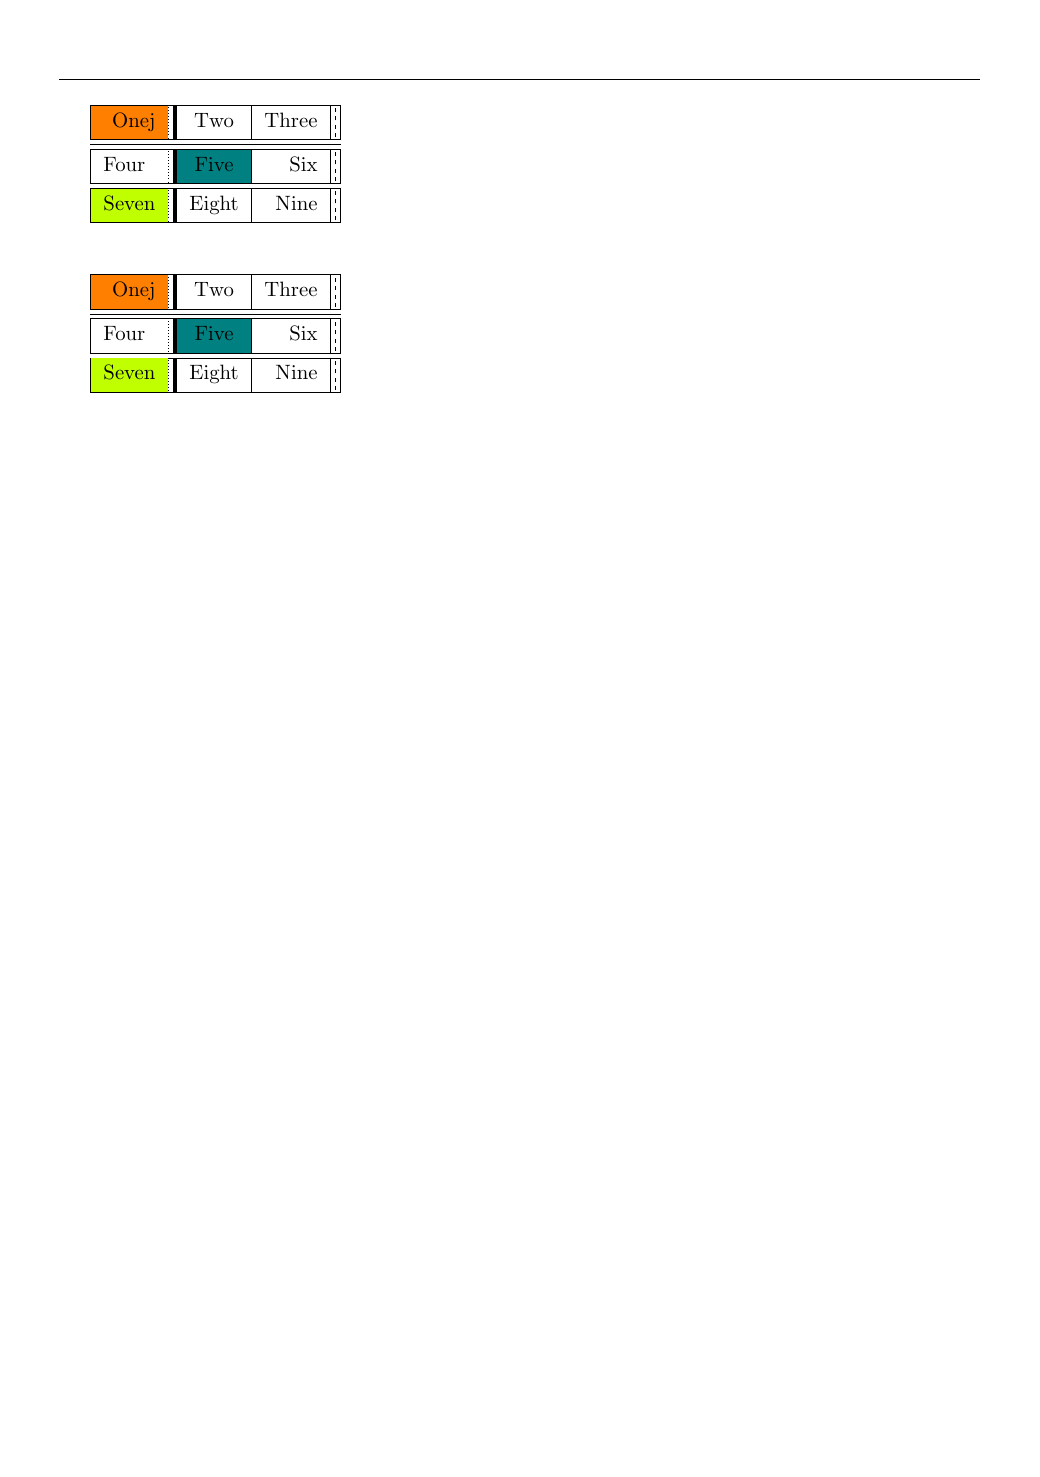
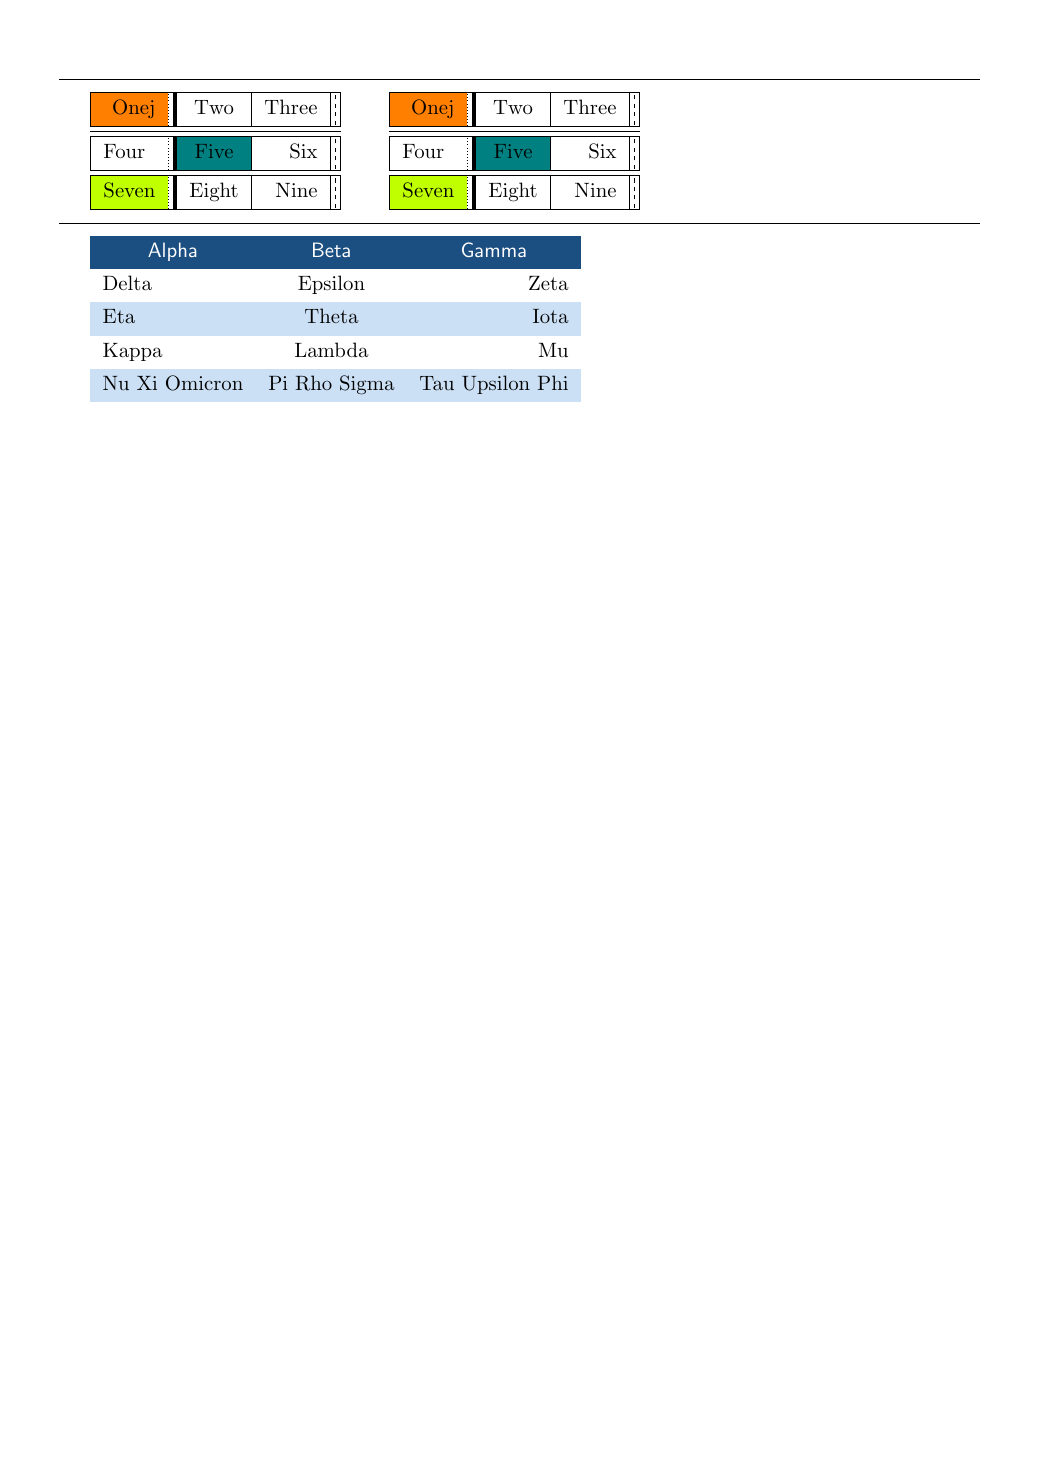
update test files for issue #2

Changed region(s): [[0.0615, 0.0623, 0.6154, 0.2803]]

diff --git a/testfiles/color-001.tex b/testfiles/color-001.tex
@@ -10,13 +10,10 @@
 
 \begin{document}
 
-\hrule
-
 \START
+\hrule\medskip
 
-\bigskip
-
-\BEGINTEST{cell background: legacy}
+\BEGINTEST{cell background}
 \begin{tblr}[b]{|l|[dotted]|[2pt]c|r|[solid]|[dashed]|}
 \hline
 \SetCell{b,r,orange}Onej   &  Two  & Three \\
@@ -26,12 +23,7 @@ Four  & \SetCell{teal}Five  &   Six \\
 \SetCell{lime}Seven & Eight &  Nine \\
 \hline
 \end{tblr}
-\ENDTEST
-
-\bigskip
-
-\BEGINTEST{cell background: modern}
-\bigskip
+\qquad
 \begin{tblr}[b]{|Q[h,l]|[dotted]|[2pt]Q[h,c]|Q[h,r]|[solid]|[dashed]|}
 \hline
 \SetCell{f,r,orange}Onej   &  Two  & Three \\
@@ -40,6 +32,23 @@ Four  & \SetCell{teal}Five  &   Six \\
 \hline\hline
 \SetCell{lime}Seven & Eight &  Nine \\
 \hline
+\end{tblr}
+\ENDTEST
+
+\medskip\hrule\medskip
+
+%% Issue 2: Setting fonts?
+\BEGINTEST{cell foreground and font}
+\begin{tblr}{
+ colspec  = {lcr},
+ row{odd} = {bg=azure9},
+ row{1}   = {c,bg=azure3,fg=white,font=\sffamily},
+}
+ Alpha & Beta    & Gamma \\
+ Delta & Epsilon & Zeta \\
+ Eta   & Theta   & Iota \\
+ Kappa & Lambda  & Mu \\
+ Nu Xi Omicron & Pi Rho Sigma & Tau Upsilon Phi \\
 \end{tblr}
 \ENDTEST
 

diff --git a/testfiles/rowcol-001.tex b/testfiles/rowcol-001.tex
@@ -32,4 +32,18 @@ a\begin{tblr}{|r@{.}ll|}
 \end{tblr}b
 \ENDTEST
 
+\bigskip\hrule\bigskip
+
+\BEGINTEST{testing !, < and > specifiers}
+\begin{tblr}{
+  colspec={QQ>{\sffamily}Q!{:}>[0pt]{$}Q<{$}Q>{\bfseries}Q},
+  rowspec={>{\itshape}QQ<[0pt]{2}!{\dotfill}>{\footnotesize}QQ<{4}},
+}
+ Alpha & Beta    & Gamma   & Delta & Epsilon & Zeta \\
+ Eta   & Theta   & Iota    & Kappa & Lambda  & Mu \\
+ Nu    & Xi      & Omicron & Pi    & Rho     & Sigma \\
+ Tau   & Upsilon & Phi     & Chi   & Psi     & Omega \\
+\end{tblr}
+\ENDTEST
+
 \end{document}
